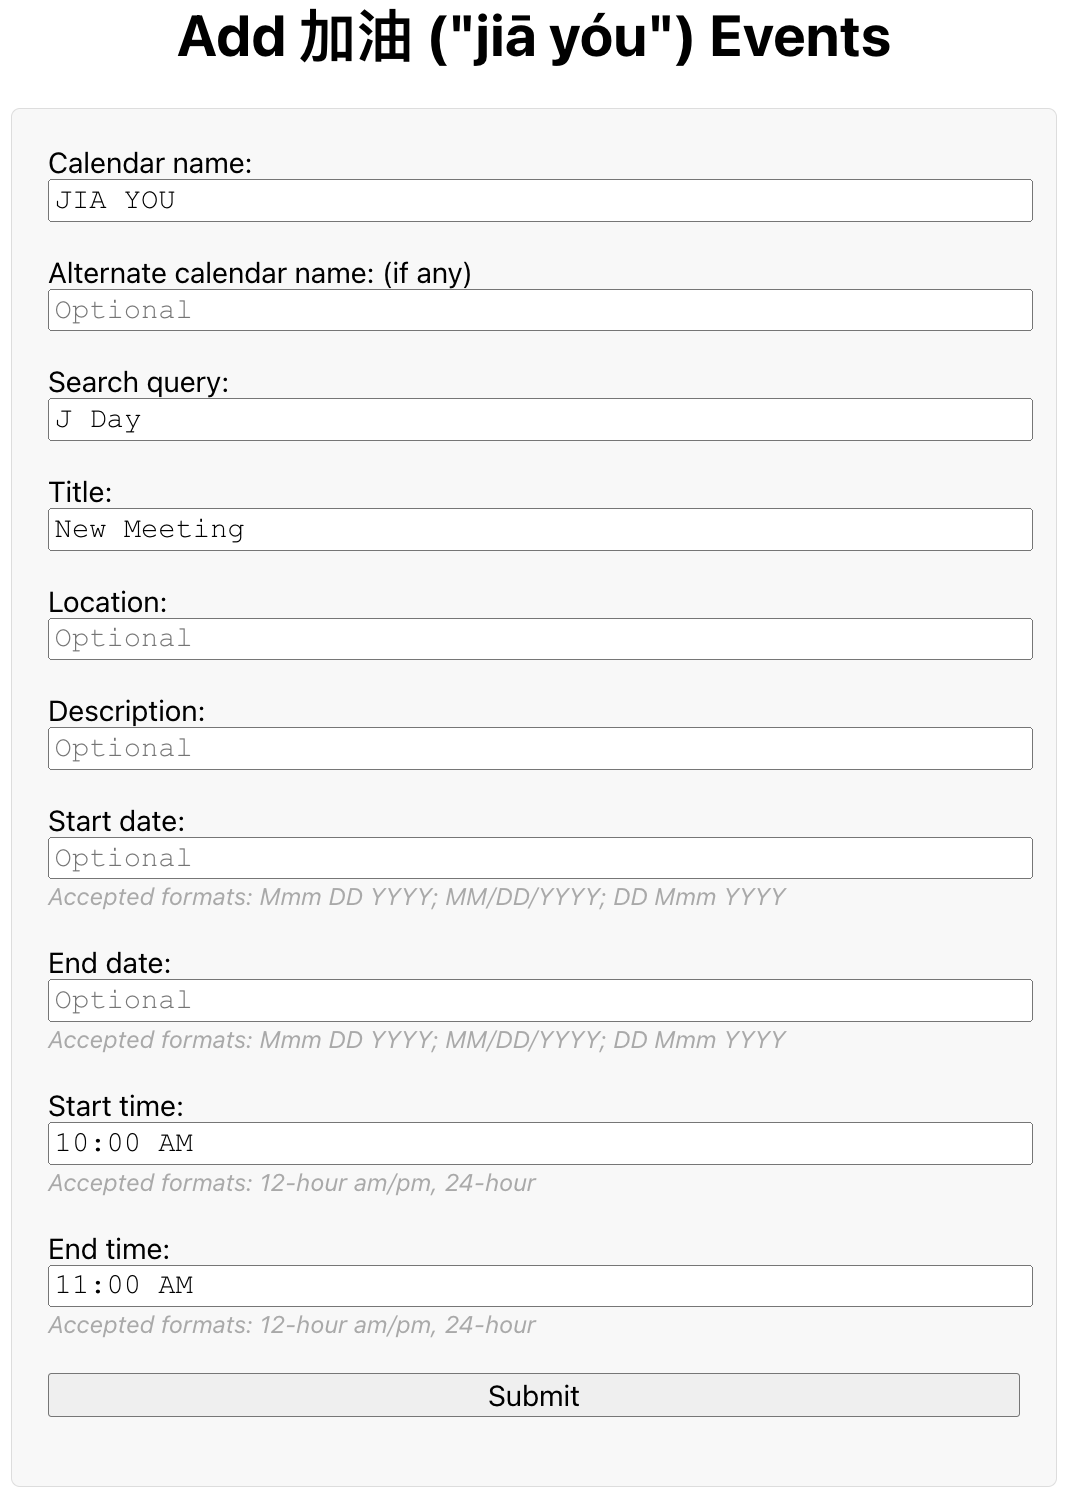
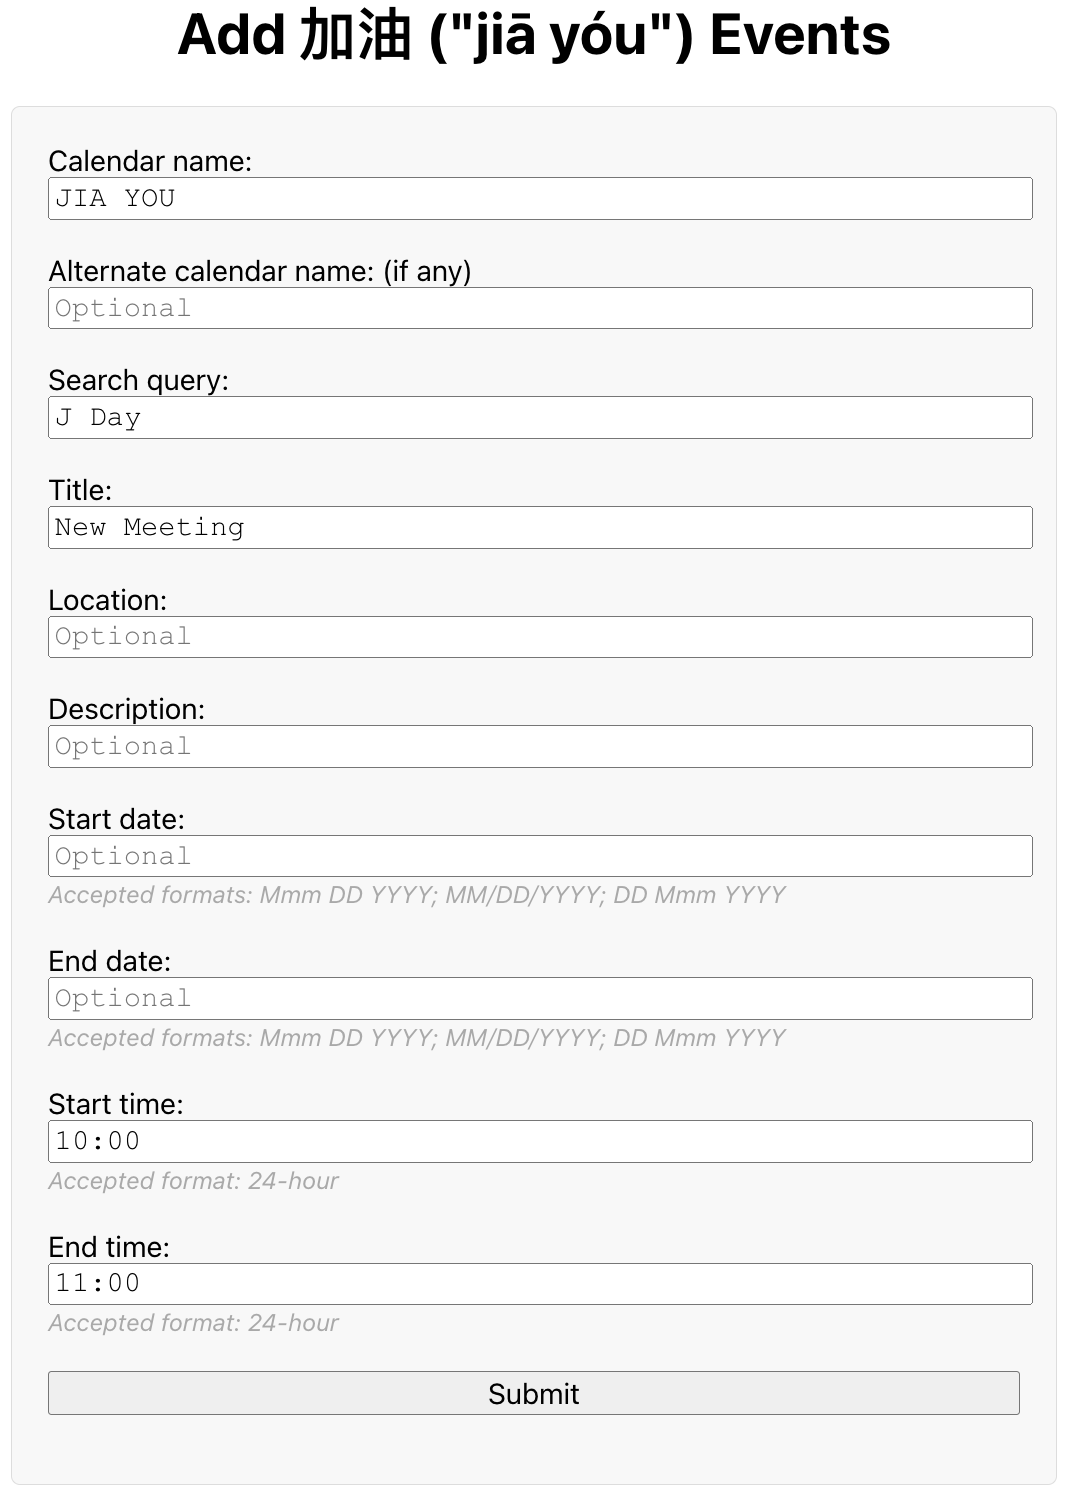
reverted time format

diff --git a/Index.html b/Index.html
@@ -79,15 +79,15 @@
       </br></br>
 
       <label for="startTime">Start time:</label>
-      <input type="text" id="startTime" name="startTime" value="10:00 AM" required></input>
+      <input type="text" id="startTime" name="startTime" value="10:00" required></input>
       <!-- prefilled for clarity -->
-      <text>Accepted formats: 12-hour am/pm, 24-hour</text>
+      <text>Accepted format: 24-hour</text>
       </br></br>
 
       <label for="endTime">End time:</label>
-      <input type="text" id="endTime" name="endTime" value="11:00 AM" required></input>
+      <input type="text" id="endTime" name="endTime" value="11:00" required></input>
       <!-- prefilled for clarity -->
-      <text>Accepted formats: 12-hour am/pm, 24-hour</text>
+      <text>Accepted format: 24-hour</text>
       </br></br>
 
       <input type="submit" value="Submit">
